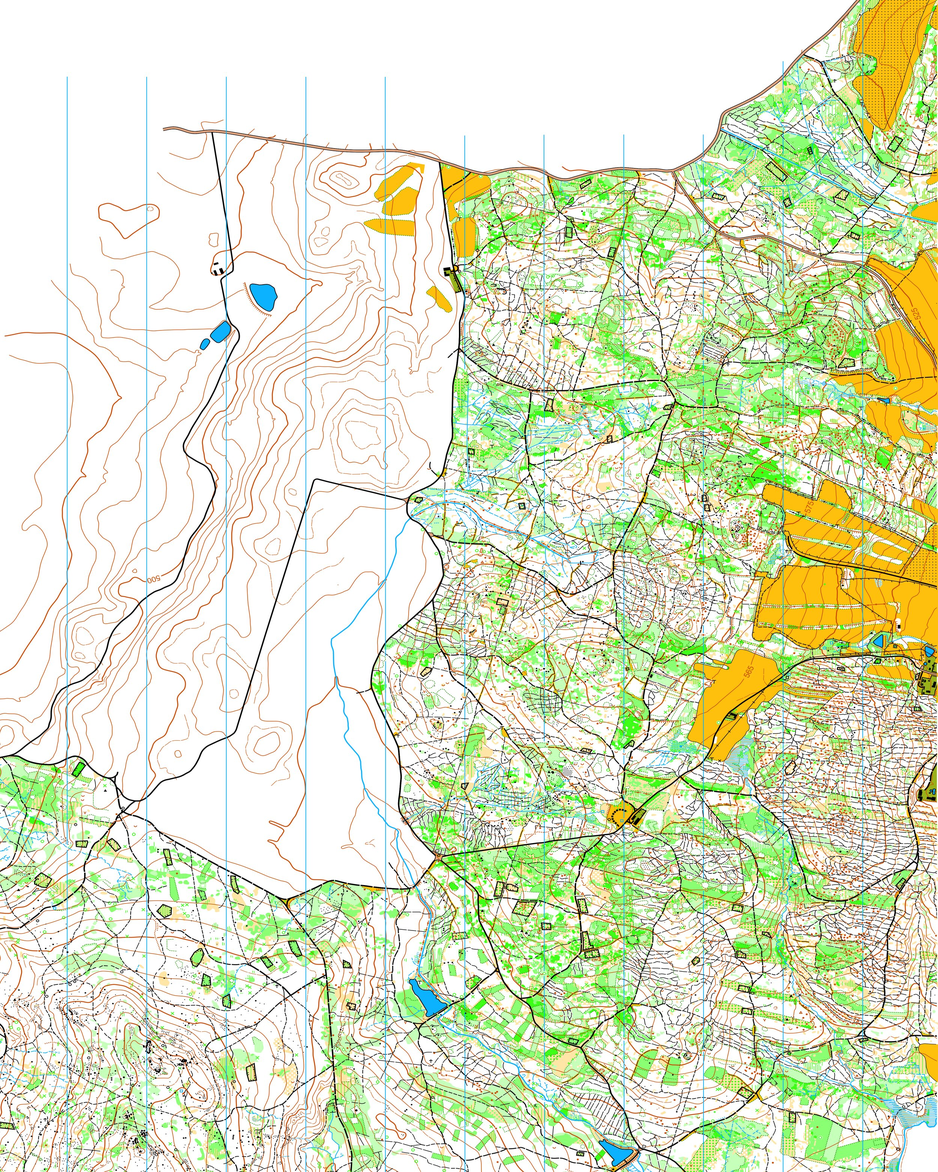
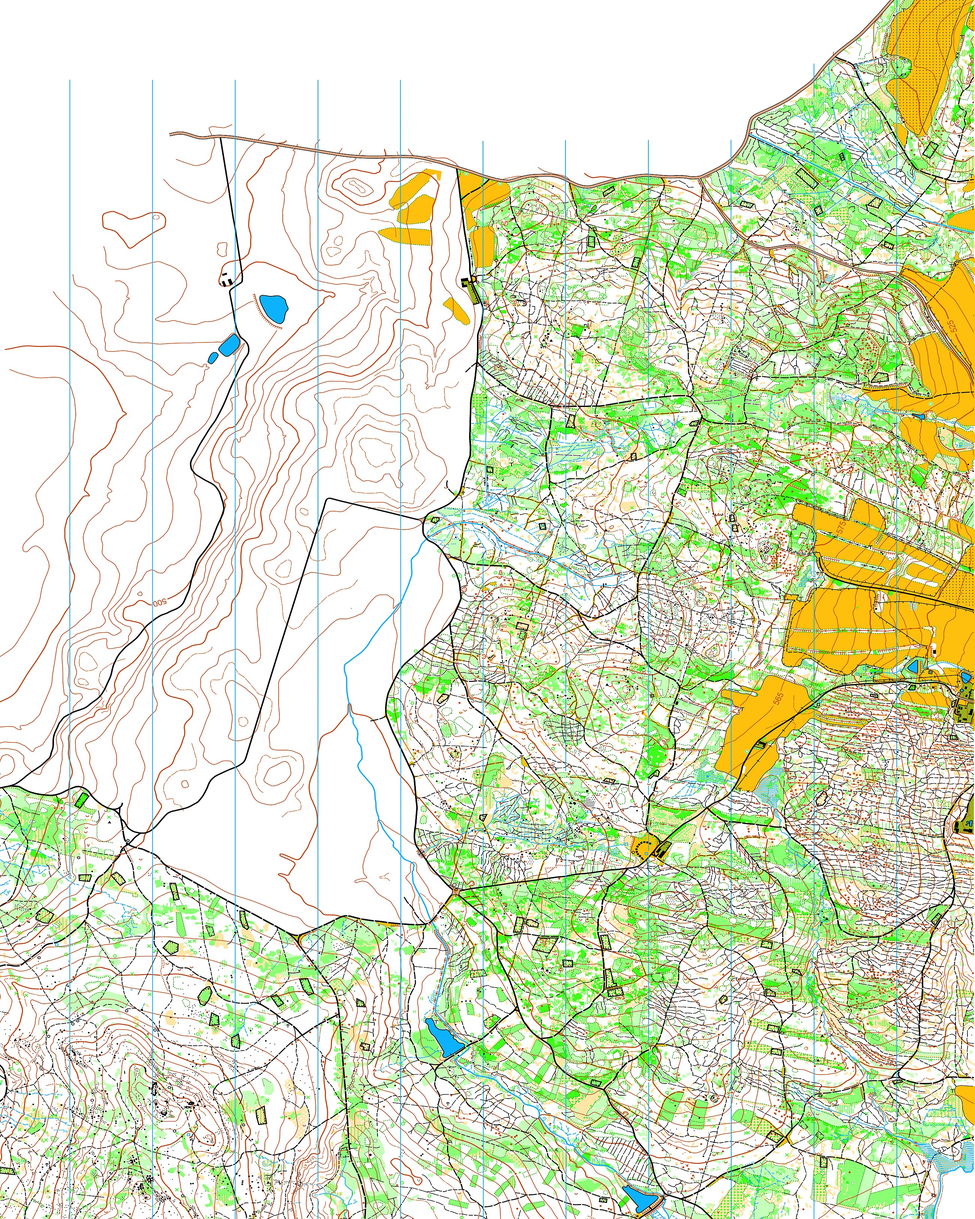
Automaticky vypocet driftu mapy, optimalizace ostrosti a plynula Ken Burns animace

diff --git a/export/app.js b/export/app.js
@@ -9,11 +9,10 @@ window.ANIMATION_CONFIG = {
     routeOffsetX: 0,
     routeOffsetY: 15,
     
-    // POSUV KAMERY NA ÚVODNÍ STRÁNCE (Explore grid)
-    // Přesné koordináty posunu (zleva-doprava a shora-dolů) v záporných procentech
+    // VOLITELNÝ MANUÁLNÍ POSUV KAMERY NA ÚVODNÍ STRÁNCE (Explore grid)
+    // Pokud zde mapa není uvedena, použije se automatický inteligentní výpočet z metadat (vyhýbá se bílým okrajům)
     exploreMaps: {
-        'homolka': { startX: -30, startY: -25, midX: -45, midY: -35, endX: -25, endY: -50 }
-        // jakoukoliv další mapu sem můžete stejným způsobem připsat
+        // 'homolka': { startX: -60, startY: -34, midX: -65, midY: -35.6, endX: -68, endY: -38.8 }
     }
 };
 
@@ -2749,17 +2748,40 @@ function renderExploreGrid() {
         el.style.position = 'relative';
         
         const countText = getRoutesCountText(group.routes.length);
-        const thumbSrc = 'thumbs/map_' + group.map_id + '.jpg';
         
-        let driftStyle = `style="position: absolute; top: 0; left: 0; width: 500%; height: 500%;"`;
+        // Získání metadat mapy (cesta a automatický drift z pipeline)
+        let mapMeta = (thumbsMeta && thumbsMeta.maps && thumbsMeta.maps[group.map_id]) ? thumbsMeta.maps[group.map_id] : null;
+        let thumbPath = (mapMeta && typeof mapMeta === 'object' && mapMeta.thumb) 
+            ? mapMeta.thumb 
+            : ('thumbs/map_' + group.map_id + '.jpg');
+        const thumbVersion = (thumbsMeta && thumbsMeta.version) ? `?v=${thumbsMeta.version}` : '';
+        const thumbSrc = thumbPath + thumbVersion;
+        
+        // 1. Priorita: Manuální override z ANIMATION_CONFIG (pokud existuje)
+        // 2. Priorita: Automatický bezpečný výpočet z thumbs_meta.json
+        let b = null;
         if (window.ANIMATION_CONFIG && window.ANIMATION_CONFIG.exploreMaps && window.ANIMATION_CONFIG.exploreMaps[group.map_id]) {
-            const b = window.ANIMATION_CONFIG.exploreMaps[group.map_id];
-            driftStyle = `style="position: absolute; top: 0; left: 0; width: 500%; height: 500%; --drift-start-x: ${b.startX}%; --drift-start-y: ${b.startY}%; --drift-mid-x: ${b.midX}%; --drift-mid-y: ${b.midY}%; --drift-end-x: ${b.endX}%; --drift-end-y: ${b.endY}%;"`;
+            b = window.ANIMATION_CONFIG.exploreMaps[group.map_id];
+        } else if (mapMeta && typeof mapMeta === 'object' && mapMeta.drift) {
+            b = mapMeta.drift;
         }
+        
+        // Pomalé, elegantní a plynulé časování: každá dlaždice má lehce odlišnou periodu a fázový posun,
+        // aby nepůsobily synchronizovaně a obrazovka nebyla přehlcená rychlým pohybem.
+        const baseDur = 85; 
+        const dur = baseDur + (idx % 4) * 12; // např. 85s, 97s, 109s, 121s
+        const delay = -((idx * 31) % baseDur);
+        
+        let driftVars = `--drift-dur: ${dur}s; --drift-delay: ${delay}s;`;
+        if (b) {
+            driftVars += ` --drift-start-x: ${b.startX}%; --drift-start-y: ${b.startY}%; --drift-mid-x: ${b.midX}%; --drift-mid-y: ${b.midY}%; --drift-end-x: ${b.endX}%; --drift-end-y: ${b.endY}%;`;
+        }
+        
+        const driftStyle = `style="position: absolute; top: 0; left: 0; width: 500%; height: 500%; ${driftVars}"`;
         
         el.innerHTML = `
             <div class="animated-map-drift" ${driftStyle}>
-                <img src="${thumbSrc}" alt="${group.map_name}" style="width: 100%; height: 100%; object-fit: cover; display: block;" loading="lazy">
+                <img src="${thumbSrc}" alt="${group.map_name}" style="width: 100%; height: 100%; object-fit: cover; display: block; image-rendering: -webkit-optimize-contrast;" loading="lazy">
             </div>
             <div style="position:absolute; bottom:0; left:0; width:100%; background:linear-gradient(to top, rgba(0,0,0,0.85) 0%, rgba(0,0,0,0.3) 70%, transparent 100%); color:#fff; font-size:13px; padding:12px 8px 8px 8px; box-sizing:border-box; z-index: 1000;">
                 <div style="font-weight:700; text-shadow: 1px 1px 2px rgba(0,0,0,0.8);">${group.map_name}</div>

diff --git a/export/style.css b/export/style.css
@@ -320,7 +320,8 @@ html, body {
 }
 
 .animated-map-drift {
-  animation: mapDrift 60s ease-in-out infinite alternate;
+  animation: mapDrift var(--drift-dur, 90s) ease-in-out infinite alternate;
+  animation-delay: var(--drift-delay, 0s);
   will-change: transform;
   -webkit-backface-visibility: hidden;
   backface-visibility: hidden;
@@ -328,6 +329,13 @@ html, body {
   transform-style: preserve-3d;
   -webkit-perspective: 1000px;
   perspective: 1000px;
+}
+
+.animated-map-drift img {
+  image-rendering: auto;
+  image-rendering: -webkit-optimize-contrast;
+  -webkit-backface-visibility: hidden;
+  backface-visibility: hidden;
 }
 
 @keyframes mapDrift {

diff --git a/14_export_thumbnails.py b/14_export_thumbnails.py
@@ -9,7 +9,15 @@ import sys
 import json
 import glob
 import math
-from PIL import Image, ImageDraw
+from PIL import Image, ImageDraw, ImageFilter
+import numpy as np
+try:
+    from scipy.ndimage import gaussian_filter
+except ImportError:
+    # Záložní jednoduchý filtr pokud scipy chybí
+    def gaussian_filter(arr, sigma=3.0):
+        return arr
+
 import config
 
 if sys.platform == "win32":
@@ -23,11 +31,11 @@ Image.MAX_IMAGE_PIXELS = None
 
 # Cílový poměr stran 4:5 (šířka:výška, IG portrait)
 TARGET_ASPECT = 4 / 5
-# Velikost výstupního thumbnailu (zvýšena pro masivní zoom a detailní panning ve frontendu)
-THUMB_WIDTH = 2500
-THUMB_HEIGHT = int(THUMB_WIDTH / TARGET_ASPECT)  # = 1250
-# JPEG kvalita (85 = dobrý kompromis ostrost vs. velikost)
-JPEG_QUALITY = 85
+# Velikost výstupního thumbnailu (zvýšena na 2600 pro křišťálovou ostrost i při 500% zoomu na Retina displejích)
+THUMB_WIDTH = 2600
+THUMB_HEIGHT = int(THUMB_WIDTH / TARGET_ASPECT)  # = 3250
+# JPEG kvalita (90 pro vysokou ostrost detailů mapy)
+JPEG_QUALITY = 90
 
 # Padding pro vyříznutí mapy kolem postupu (zajišťuje dostatek "masa" pro zoom bez přejetí mimo mapu)
 BBOX_PADDING_RATIO = 0.35  # Velmi těsný ořez pro co největší detail
@@ -111,6 +119,120 @@ def crop_to_aspect(bbox, img_width, img_height, aspect_ratio=TARGET_ASPECT, padd
     return int(max(0, min_col)), int(max(0, min_row)), int(min(img_width, max_col)), int(min(img_height, max_row))
 
 
+def compute_map_drift(cropped_img, norm_route_pts=None):
+    """
+    Vypočítá optimální trajektorii kamery (startX/Y, midX/Y, endX/Y) pro dlaždici na homepage.
+    - Analyzuje bílé / nezmapované okraje mapy a striktně se jim vyhýbá.
+    - Směruje kameru do aktivních zón s nejvyšší hustotou kontrol a postupů.
+    - Zajišťuje jemný, pomalý a filmově plynulý drift.
+    """
+    W, H = 100, 125
+    small = cropped_img.resize((W, H), Image.Resampling.BOX)
+    arr = np.array(small, dtype=np.float32)
+    
+    # Detekce bílého / prázdného okraje
+    is_white = (arr[:, :, 0] > 232) & (arr[:, :, 1] > 232) & (arr[:, :, 2] > 232) & (np.ptp(arr, axis=2) < 22)
+    
+    # Detailní mapa: saturace a kontrast mapových prvků (vrstevnice, cesty, les)
+    color_var = np.std(arr, axis=2)
+    darkness = 255.0 - np.mean(arr, axis=2)
+    detail_map = (color_var * 0.6 + darkness * 0.4) * (~is_white)
+    if np.max(detail_map) > 0:
+        detail_map /= np.max(detail_map)
+        
+    # Hustota postupů na mapě
+    route_map = np.zeros((H, W), dtype=np.float32)
+    if norm_route_pts and len(norm_route_pts) > 0:
+        for (nx, ny) in norm_route_pts:
+            col = int(round(nx * (W - 1)))
+            row = int(round(ny * (H - 1)))
+            if 0 <= col < W and 0 <= row < H:
+                route_map[row, col] += 1.0
+        route_map = gaussian_filter(route_map, sigma=4.5)
+        if np.max(route_map) > 0:
+            route_map /= np.max(route_map)
+    else:
+        route_map = detail_map.copy()
+        
+    # Velikost zobrazeného výřezu při 500% zoomu (20% šířky i výšky)
+    win_w = 20
+    win_h = 25
+    half_w = win_w // 2
+    half_h = win_h // 2
+    
+    scores = np.zeros((H, W), dtype=np.float32)
+    white_ratios = np.ones((H, W), dtype=np.float32)
+    
+    for r in range(half_h, H - half_h):
+        for c in range(half_w, W - half_w):
+            sub_w = is_white[r - half_h : r + half_h + 1, c - half_w : c + half_w + 1]
+            w_ratio = np.mean(sub_w)
+            white_ratios[r, c] = w_ratio
+            # Striktní podmínka: maximálně 3 % bílého okraje v celém 20%x20% zorném poli
+            if w_ratio <= 0.03:
+                r_val = np.mean(route_map[r - half_h : r + half_h + 1, c - half_w : c + half_w + 1])
+                d_val = np.mean(detail_map[r - half_h : r + half_h + 1, c - half_w : c + half_w + 1])
+                score = (1.0 - w_ratio * 25.0) * (r_val * 3.0 + d_val * 0.5)
+                scores[r, c] = max(0.001, score)
+                
+    if np.max(scores) == 0:
+        min_w = np.min(white_ratios[half_h : H - half_h, half_w : W - half_w])
+        best_pos = np.argwhere(white_ratios == min_w)
+        r_best, c_best = best_pos[0]
+        c1, r1 = c_best, r_best
+        c2, r2 = c_best, r_best
+        cm, rm = c_best, r_best
+    else:
+        threshold = np.percentile(scores[scores > 0], 75)
+        top_candidates = np.argwhere(scores >= threshold)
+        
+        # Cílová vzdálenost pro jemný, decentní a pomalý drift (~8-10% šířky mapy)
+        target_dist = 10.0
+        best_pair = None
+        best_diff = 999.0
+        
+        for r1_cand, c1_cand in top_candidates[::2]:
+            for r2_cand, c2_cand in top_candidates[::2]:
+                d = np.hypot(c2_cand - c1_cand, r2_cand - r1_cand)
+                if 6.0 <= d <= 14.0:
+                    diff = abs(d - target_dist)
+                    if diff < best_diff:
+                        best_diff = diff
+                        best_pair = ((c1_cand, r1_cand), (c2_cand, r2_cand))
+                        
+        if best_pair is None:
+            max_idx = np.argmax(scores)
+            br, bc = np.unravel_index(max_idx, scores.shape)
+            c1, r1 = bc - 4, br - 3
+            c2, r2 = bc + 4, br + 3
+        else:
+            (c1, r1), (c2, r2) = best_pair
+            
+        # Půlka cesty s jemným organickým zakřivením
+        cm = int(round((c1 + c2) / 2.0 + (r2 - r1) * 0.15))
+        rm = int(round((r1 + r2) / 2.0 - (c2 - c1) * 0.15))
+        
+        if not (half_h <= rm < H - half_h and half_w <= cm < W - half_w and white_ratios[rm, cm] <= 0.04):
+            cm = int(round((c1 + c2) / 2.0))
+            rm = int(round((r1 + r2) / 2.0))
+
+    def to_css(col, row):
+        cx = col / float(W)
+        cy = row / float(H)
+        sx = max(-80.0, min(0.0, -(cx - 0.10) * 100.0))
+        sy = max(-80.0, min(0.0, -(cy - 0.10) * 100.0))
+        return round(float(sx), 1), round(float(sy), 1)
+
+    sx, sy = to_css(c1, r1)
+    ex, ey = to_css(c2, r2)
+    mx, my = to_css(cm, rm)
+    return {
+        'startX': sx, 'startY': sy,
+        'midX': mx, 'midY': my,
+        'endX': ex, 'endY': ey
+    }
+
+
 def generate_thumbnails():
     print("🖼 Generuji náhledy dlaždic (thumbnaily)...")
     
@@ -166,10 +288,21 @@ def generate_thumbnails():
     cropped = img.crop(crop_box)
     thumb = cropped.resize((THUMB_WIDTH, THUMB_HEIGHT), Image.Resampling.LANCZOS)
     
+    # Doostření pro maximální ostrost a čitelnost mapových prvků
+    thumb = thumb.filter(ImageFilter.UnsharpMask(radius=1.0, percent=65, threshold=2))
+    
     map_thumb_path = os.path.join(thumbs_dir, "map_homolka.jpg")
     thumb.save(map_thumb_path, "JPEG", quality=JPEG_QUALITY, optimize=True)
     file_size = os.path.getsize(map_thumb_path) / 1024
     print(f"    ✅ Uloženo: {map_thumb_path} ({THUMB_WIDTH}×{THUMB_HEIGHT}, {file_size:.1f} KB)")
+    
+    # Výpočet inteligentního a bezpečného driftu bez bílých okrajů
+    print("    🧭 Počítám automatickou trajektorii kamery (vyhýbání se bílým okrajům)...")
+    crop_w = crop_box[2] - crop_box[0]
+    crop_h = crop_box[3] - crop_box[1]
+    norm_pts = [((p[0] - crop_box[0]) / crop_w, (p[1] - crop_box[1]) / crop_h) for p in all_pixels]
+    map_drift = compute_map_drift(cropped, norm_pts)
+    print(f"    🎯 Automatický drift: {map_drift}")
     
     # 2) Thumbnail per postup (individuální bounding box)
     print(f"\n  📐 Generuji individuální thumbnaily pro {len(per_postup_pixels)} postupů...")
@@ -218,6 +351,7 @@ def generate_thumbnails():
         # ---------------------------------------------
         
         thumb = cropped.resize((THUMB_WIDTH, THUMB_HEIGHT), Image.Resampling.LANCZOS)
+        thumb = thumb.filter(ImageFilter.UnsharpMask(radius=1.0, percent=65, threshold=2))
         
         thumb_path = os.path.join(thumbs_dir, f"{basename}.jpg")
         thumb.save(thumb_path, "JPEG", quality=JPEG_QUALITY, optimize=True)
@@ -238,7 +372,10 @@ def generate_thumbnails():
     thumbs_meta = {
         "version": int(time.time()),
         "maps": {
-            "homolka": "thumbs/map_homolka.jpg"
+            "homolka": {
+                "thumb": "thumbs/map_homolka.jpg",
+                "drift": map_drift
+            }
         },
         "routes": route_meta
     }
